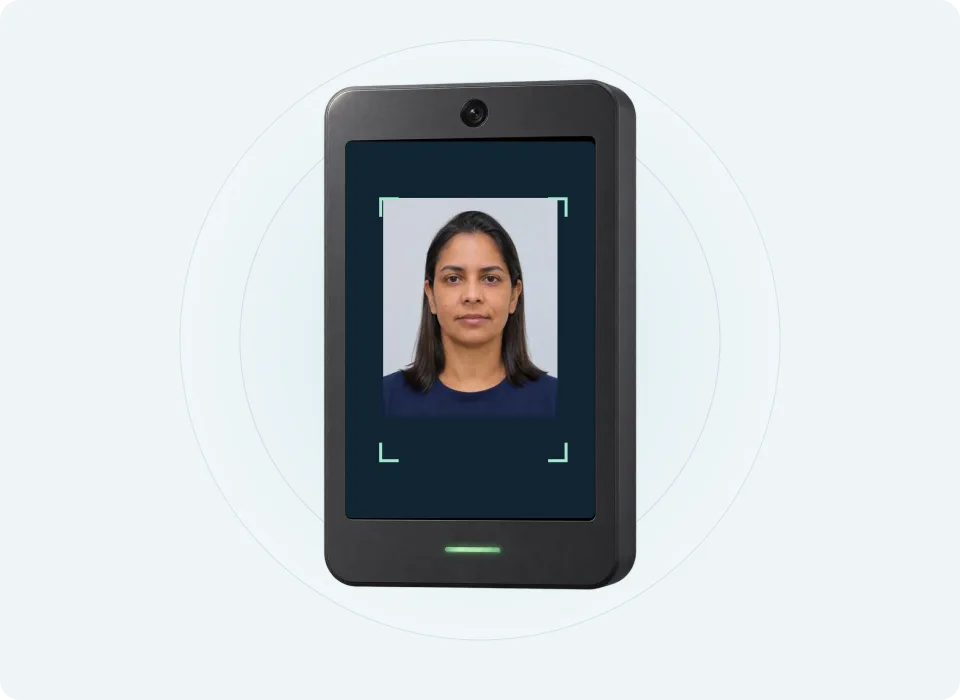
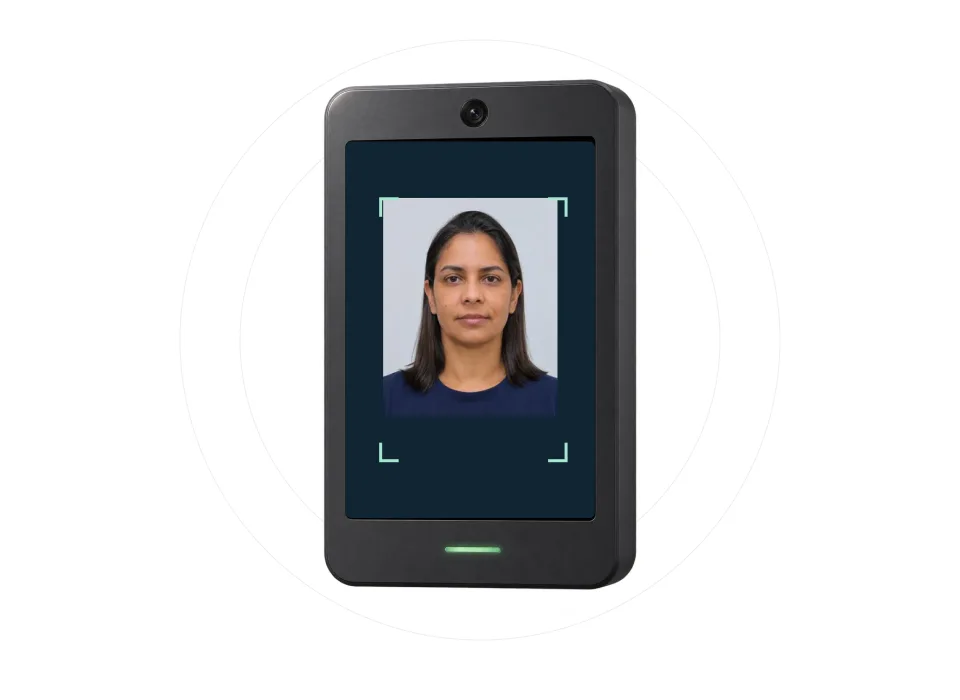
Add files via upload

Changed region(s): [[0.2812, 0.33, 0.3438, 0.63], [0.6562, 0.36, 0.6875, 0.6]]

diff --git a/index.html b/index.html
@@ -21,6 +21,7 @@
   <link rel="stylesheet" href="home.css" />
   <noscript><link rel="stylesheet" href="home-static.css" /></noscript>
   <script src="home.js" defer></script>
+  <script src="home-highlights.js" defer></script>
 </head>
 <body class="portal-home">
   <a class="skip-link" href="#main-content">Ir para o conteúdo principal</a>
@@ -81,7 +82,7 @@
             <div class="demo-stage" aria-hidden="true">
               <div class="demo-orbit"></div>
               <div class="terminal">
-                <img class="terminal-image" src="assets/home/terminal.webp" srcset="assets/home/terminal-mobile.webp 430w, assets/home/terminal.webp 814w" sizes="(max-width: 900px) 70vw, 420px" width="814" height="1086" alt="" fetchpriority="high" />
+                <img class="terminal-image" src="assets/home/terminal.webp" srcset="assets/home/terminal-mobile.webp 430w, assets/home/terminal.webp 814w" sizes="(max-width: 900px) 220px, (max-height: 650px) 220px, 46vw" width="814" height="1086" alt="" fetchpriority="high" />
                 <div class="terminal-screen">
                   <div class="standby"><svg viewBox="0 0 64 64" fill="none" stroke-width="1.5"><path d="M6 22V6h16m20 0h16v16M6 42v16h16m20 0h16V42"/><circle cx="32" cy="25" r="9"/><path d="M17 49c1-16 29-16 30 0"/></svg><span>PONTO ELETRÔNICO</span><div class="standby-lines"></div></div>
                   <span class="confirm-symbol">✓</span>
@@ -91,7 +92,6 @@
               <div class="time-travel">08:00</div>
               <div class="report-card"><p class="report-label">Exemplo fictício</p><h3>Espelho de ponto</h3><table><thead><tr><th>Data</th><th>Marcação</th><th>Tipo</th></tr></thead><tbody><tr><td>05/11</td><td class="destination"><span>08:00</span></td><td>Entrada</td></tr></tbody></table><p class="report-foot">Uma marcação na sua frequência.</p></div>
             </div>
-            <nav class="visual-footer" aria-label="Etapas do ponto eletrônico"><ol class="demo-steps"><li class="is-active"><a href="#cadastro">Cadastro facial</a></li><li><a href="#registro">Registro</a></li><li><a href="#frequencia">Frequência</a></li></ol></nav>
           </div>
         </div>
 
@@ -135,7 +135,7 @@
       </section>
 
       <!-- CAROUSEL -->
-      <section class="modern-carousel" aria-label="Carrossel de informações">
+      <section class="modern-carousel scroll-highlights" id="informacoes" aria-labelledby="highlights-title"><div class="highlights-pin"><div class="highlights-heading"><span class="step-label">Serviços e orientações</span><h2 id="highlights-title">Informações para sua rotina.</h2></div>
         <div class="carousel-wrapper">
           <div class="carousel-track" id="carouselTrack">
 
@@ -163,7 +163,7 @@
                   <span class="eyebrow">Legislação</span>
                   <h3>Marco Legal do Controle de Ponto</h3>
                   <p>Decreto Nº 1237, de 06 de Junho de 2024</p>
-                  <p>Portaria SEAD Nº. 13, de 04 de Junho de 2025</p>
+                  <p>Portaria SEAD Nº. 13, de 04 de Junho de 2025</p><a class="home-link" href="https://drive.google.com/uc?id=19SWZsRNQ-8Bsw2WJKbl1MmO6sEXyFOXp">Consultar legislação</a>
                 </div>
               </div>
             </div>
@@ -194,7 +194,7 @@
                 <div class="carousel-text">
                   <span class="eyebrow">Suporte</span>
                   <h3>Atendimento Especializado</h3>
-                  <p>Nossa equipe está pronta para ajudar com dúvidas, problemas técnicos e orientações sobre o sistema.</p>
+                  <p>Nossa equipe está pronta para ajudar com dúvidas, problemas técnicos e orientações sobre o sistema.</p><a class="home-link" href="#suporte-title">Encontrar atendimento</a>
                 </div>
               </div>
             </div>
@@ -207,29 +207,15 @@
                 <div class="carousel-text">
                   <span class="eyebrow">Relatórios</span>
                   <h3>Histórico Detalhado</h3>
-                  <p>Acesso completo ao histórico de frequência com relatórios organizados e fáceis de entender.</p>
+                  <p>Acesso completo ao histórico de frequência com relatórios organizados e fáceis de entender.</p><a class="home-link" href="https://forponto.contagem.mg.gov.br/ForpontoWeb/login.aspx" target="_blank" rel="noopener noreferrer">Consultar no Forponto</a>
                 </div>
               </div>
             </div>
 
           </div>
-
-          <button class="carousel-nav prev" onclick="moveCarousel(-1)" aria-label="Anterior">
-            <i class="fas fa-chevron-left"></i>
-          </button>
-          <button class="carousel-nav next" onclick="moveCarousel(1)" aria-label="Próximo">
-            <i class="fas fa-chevron-right"></i>
-          </button>
         </div>
 
-        <div class="carousel-dots" role="group" aria-label="Escolher informação">
-          <button class="dot active" type="button" onclick="currentSlide(1)" aria-label="Mostrar informação 1" aria-pressed="true"></button>
-          <button class="dot" type="button" onclick="currentSlide(2)" aria-label="Mostrar informação 2" aria-pressed="false"></button>
-          <button class="dot" type="button" onclick="currentSlide(3)" aria-label="Mostrar informação 3" aria-pressed="false"></button>
-          <button class="dot" type="button" onclick="currentSlide(4)" aria-label="Mostrar informação 4" aria-pressed="false"></button>
-          <button class="dot" type="button" onclick="currentSlide(5)" aria-label="Mostrar informação 5" aria-pressed="false"></button>
-        </div>
-      </section>
+      </div></section>
 
       <!-- ÚLTIMAS NOTÍCIAS -->
       <section class="section-sm latest-news" aria-label="Últimas notícias">

diff --git a/home.css b/home.css
@@ -198,6 +198,8 @@ html { scroll-behavior: auto; }
   .motion-ready .visual-footer { padding: 4px 0 0; max-width: 400px; }
   .motion-ready .demo-steps { gap: 12px; border-bottom: 0; padding-bottom: 0; }
   .motion-ready .demo-steps li { padding-top: 6px; font-size: .875rem; }
+  .motion-ready .demo-steps li:first-child { flex: 1.35; }
+  .motion-ready .demo-steps li:nth-child(2) { flex: .9; }
   .motion-ready .home-step { top: var(--mobile-copy-top, 285px); }
   .motion-ready .step-label { font-size: .75rem; }
   .motion-ready .home-step h2 { font-size: clamp(1.7rem, 6vw, 2.2rem); margin: 12px 0; }
@@ -232,4 +234,54 @@ html { scroll-behavior: auto; }
 @media (max-width: 900px) {
   .motion-ready.has-mobile-bank-nav .chat-fab { top: 12px; right: 66px; bottom: auto; width: 36px; height: 36px; }
   .motion-ready.has-mobile-bank-nav .chat-fab .chat-fab-icon { font-size: 1rem; }
+}
+
+/* Existing information images now use the same native, reversible scroll model. */
+.scroll-highlights { --text-primary: #16160f; --text-secondary: #5c5b55; --surface: #fff; --border: #e8e7e2; --home-muted: #5c5b55; --home-blue: var(--blue-500); background: #fff; padding: 0 !important; }
+#informacoes { scroll-margin-top: var(--home-nav-height); }
+.highlights-heading h2 { font: 400 clamp(1.8rem, 3vw, 3.25rem)/1.1 var(--font-display); letter-spacing: -.025em; margin-top: 10px; color: #16160f; }
+.scroll-highlights .carousel-wrapper { width: 100%; border: 0; border-radius: 14px; background: #fff; }
+.scroll-highlights .carousel-content { grid-template-columns: 1.1fr 1fr; }
+.scroll-highlights .carousel-item { transition: none; }
+.scroll-highlights .carousel-image { background: #f8f8f6; border: 0; padding: 0; }
+.scroll-highlights .carousel-image img { transition: none; }
+.scroll-highlights .carousel-text { border: 0; background: #fff; gap: 16px; padding: clamp(24px, 4vw, 70px); }
+.scroll-highlights .carousel-text h3 { font: 400 clamp(1.7rem, 2.6vw, 3rem)/1.1 var(--font-display); text-transform: none; letter-spacing: -.025em; }
+.scroll-highlights .carousel-text p { font-size: 1rem; line-height: 1.6; }
+.scroll-highlights .carousel-text .home-link { font-size: 1rem; align-self: flex-start; }
+.highlights-controls { display: none; }
+.scroll-highlights:not(.highlights-ready) .carousel-track { display: grid; gap: 24px; height: auto; min-height: 0; }
+.scroll-highlights:not(.highlights-ready) .carousel-item { position: relative; opacity: 1; visibility: visible; height: auto; pointer-events: auto; }
+.scroll-highlights:not(.highlights-ready) .carousel-content { min-height: 350px; height: auto; }
+.highlights-ready { height: 360svh; }
+.highlights-ready .highlights-pin { position: sticky; top: var(--home-nav-height); height: calc(100svh - var(--home-nav-height) - var(--home-bottom-nav, 0px)); display: flex; flex-direction: column; justify-content: center; gap: 24px; padding-block: 16px; }
+.highlights-ready .carousel-wrapper { flex: 0 0 auto; }
+.highlights-ready .carousel-track { height: min(56svh, 620px); min-height: 0; }
+.highlights-ready .carousel-item { visibility: hidden; }
+.highlights-ready .carousel-item.active { visibility: visible; }
+.highlights-ready .highlights-controls { display: flex; flex-wrap: wrap; justify-content: center; gap: 8px 18px; }
+.highlights-controls button { color: #5c5b55; background: transparent; border: 0; border-bottom: 2px solid #eee; padding: 8px 12px; font: 400 .875rem var(--font-body); cursor: pointer; }
+.highlights-controls button[aria-current] { color: var(--blue-500); border-color: var(--blue-500); }
+@media (max-width: 900px), (max-height: 650px) {
+  .highlights-ready { height: 360svh; }
+  .highlights-ready .highlights-pin { gap: 12px; padding-block: 10px; }
+  .highlights-heading h2 { font-size: 1.45rem; line-height: 1.15; margin-top: 6px; }
+  .highlights-heading .step-label { font-size: .75rem; }
+  .highlights-ready .carousel-track { height: min(490px, calc(100svh - var(--home-nav-height) - var(--home-bottom-nav, 0px) - 200px)); }
+  .scroll-highlights .carousel-content { grid-template-columns: 1fr; grid-template-rows: clamp(130px, 20svh, 175px) 1fr; }
+  .scroll-highlights .carousel-image { height: auto; }
+  .scroll-highlights .carousel-text { padding: 16px; gap: 8px; }
+  .scroll-highlights .carousel-text h3 { font-size: 1.4rem; }
+  .scroll-highlights .carousel-text p { line-height: 1.45; }
+  .scroll-highlights .os-detection { margin: 0; }
+  .scroll-highlights .carousel-text .eyebrow { font-size: .75rem; }
+  .highlights-controls button { padding: 6px 8px; }
+  .highlights-ready .highlights-controls { gap: 4px 8px; }
+}
+@media print {
+  .highlights-ready { height: auto; }
+  .highlights-ready .highlights-pin { height: auto; position: static; display: block; }
+  .highlights-ready .carousel-track { height: auto; display: block; }
+  .highlights-ready .carousel-item { height: auto; position: static; visibility: visible !important; opacity: 1 !important; break-inside: avoid; }
+  .highlights-controls { display: none !important; }
 }

diff --git a/home-highlights.js b/home-highlights.js
@@ -1,0 +1,79 @@
+/* Scroll-controlled materials. No timer, autoplay or horizontal touch interception. */
+(() => {
+  const section = document.querySelector('.scroll-highlights');
+  if (!section) return;
+  const pin = section.querySelector('.highlights-pin');
+  const items = [...section.querySelectorAll('.carousel-item')];
+  const controls = [...section.querySelectorAll('[data-highlight]')];
+  const reduced = matchMedia('(prefers-reduced-motion: reduce)');
+  const clamp = n => Math.max(0, Math.min(1, n));
+  const ease = n => n * n * (3 - 2 * n);
+  let geometry, current = null, frame = 0, previousTime = 0;
+
+  function reset() {
+    cancelAnimationFrame(frame); frame = 0; geometry = null; current = null;
+    section.classList.remove('highlights-ready');
+    items.forEach(item => {
+      item.removeAttribute('style'); item.inert = false; item.removeAttribute('aria-hidden');
+      item.querySelector('.carousel-image img')?.removeAttribute('style');
+      item.querySelector('.carousel-text')?.removeAttribute('style');
+    });
+  }
+  function progress() { return geometry ? clamp((scrollY - geometry.start) / geometry.distance) : 0; }
+  function paint(p) {
+    section.dataset.progress = p.toFixed(4);
+    const position = Math.max(0, Math.min(items.length - 1, p * items.length - .5));
+    const index = Math.min(items.length - 1, Math.floor(position));
+    const transition = ease(clamp((position - index - .48) / .52));
+    const active = Math.min(items.length - 1, index + (transition > .5 ? 1 : 0));
+    items.forEach((item, i) => {
+      const opacity = i === index ? 1 - transition : i === index + 1 ? transition : 0;
+      item.style.opacity = String(opacity);
+      item.style.visibility = opacity > .001 ? 'visible' : 'hidden';
+      item.style.zIndex = String(i === active ? 2 : 1);
+      item.style.pointerEvents = i === active ? 'auto' : 'none';
+      const hidden = i !== active;
+      if (item.inert !== hidden) item.inert = hidden;
+      if (item.getAttribute('aria-hidden') !== String(hidden)) item.setAttribute('aria-hidden', String(hidden));
+      item.classList.toggle('active', i === active);
+      const image = item.querySelector('.carousel-image img');
+      if (image) image.style.transform = `scale(${1.035 - clamp(position - i + .5) * .025})`;
+      const text = item.querySelector('.carousel-text');
+      if (text) text.style.transform = `translateY(${(i === index ? -transition : 1 - transition) * 12}px)`;
+    });
+    controls.forEach((control, i) => {
+      if (i === active) control.setAttribute('aria-current','step');
+      else control.removeAttribute('aria-current');
+    });
+  }
+  function measure() {
+    if (reduced.matches) { reset(); return; }
+    section.classList.add('highlights-ready');
+    const top = document.querySelector('.site-nav').getBoundingClientRect().height;
+    const rect = section.getBoundingClientRect();
+    geometry = { start: rect.top + scrollY - top, distance: Math.max(1, rect.height - pin.getBoundingClientRect().height) };
+    current = progress(); paint(current);
+  }
+  function tick(time) {
+    frame = 0;
+    if (!geometry) return;
+    const target = progress();
+    if (current === target) { previousTime = time; return; }
+    const delta = Math.min(64, previousTime ? time - previousTime : 16); previousTime = time;
+    if (current === null || Math.abs(target-current) < .00008) current = target;
+    else current += (target-current) * (1-Math.exp(-delta/95));
+    paint(current);
+    if (current !== target) frame = requestAnimationFrame(tick);
+  }
+  function schedule() { if (!frame && geometry) frame = requestAnimationFrame(tick); }
+  controls.forEach((control, i) => control.addEventListener('click', () => {
+    if (geometry) scrollTo({ top: geometry.start + ((i+.5)/items.length) * geometry.distance, behavior: 'smooth' });
+  }));
+  addEventListener('scroll',schedule,{passive:true});
+  addEventListener('resize',measure,{passive:true});
+  addEventListener('pageshow',measure);
+  reduced.addEventListener('change',measure);
+  const observer = new ResizeObserver(measure); observer.observe(pin);
+  document.fonts?.ready.then(measure);
+  measure();
+})();

diff --git a/home.js b/home.js
@@ -33,7 +33,7 @@
     for (const panel of panels) { panel.inert = false; panel.removeAttribute('aria-hidden'); }
     cell.querySelector('span').style.visibility = '';
     stage.style.removeProperty('--scene-height');
-    markers.forEach((marker, i) => { marker.classList.toggle('is-active', i === 0); marker.style.removeProperty('border-image'); });
+    markers.forEach((marker, i) => { marker.classList.toggle('is-active', i === 0); marker.style.removeProperty('border-image'); marker.querySelector('a')?.removeAttribute('aria-current'); });
   }
 
   function rawProgress() {
@@ -76,8 +76,6 @@
       cellY: target.top - box.top + target.height / 2,
       openingY: compact.matches ? panels[0].getBoundingClientRect().height + 40 : 0
     };
-    stage.dataset.scrollStart = geometry.start.toFixed(2);
-    stage.dataset.scrollDistance = geometry.distance.toFixed(2);
     current = rawProgress();
     paint(current);
   }
@@ -140,6 +138,7 @@
     frame = 0;
     if (!geometry || failed || reduced.matches) return;
     const target = rawProgress();
+    if (current === target) { lastTick = time; return; }
     const elapsed = Math.min(64, lastTick ? time - lastTick : 16);
     lastTick = time;
     if (current === null || Math.abs(target - current) < .00008) current = target;
@@ -151,8 +150,6 @@
 
   function toHash(behavior = 'instant') {
     if (!geometry || !(location.hash in phases)) return;
-    stage.dataset.anchorTarget = (geometry.start + phases[location.hash] * geometry.distance).toFixed(2);
-    stage.dataset.anchor = location.hash;
     window.scrollTo({ top: geometry.start + phases[location.hash] * geometry.distance, behavior });
     if (behavior === 'instant') { current = rawProgress(); paint(current); }
     schedule();

diff --git a/script.js b/script.js
@@ -143,6 +143,7 @@ let autoSlideId = null;
 let isTrans     = false;
 
 function initCarousel() {
+  if (document.querySelector('.scroll-highlights')) return;
   updateCarousel();
   startAutoSlide();
   const wrapper = document.querySelector('.carousel-wrapper');
@@ -208,6 +209,7 @@ function currentSlide(n) {
 }
 
 function startAutoSlide()  {
+  if (document.querySelector('.scroll-highlights')) return;
   const carousel = document.querySelector('.modern-carousel');
   if (document.hidden || matchMedia('(prefers-reduced-motion: reduce)').matches || carousel?.contains(document.activeElement)) return;
   if (!autoSlideId) autoSlideId = setInterval(() => moveCarousel(1), 5500);

diff --git a/ENTREGA.md b/ENTREGA.md
@@ -6,8 +6,19 @@ Implementado nos arquivos fornecidos, sem etapa de build nem dependências novas
 
 Na pasta do projeto, execute `node preview.cjs` e abra http://127.0.0.1:4173/portal/. No PowerShell com restrições de resolução de caminhos do Node, use `Get-Content preview.cjs -Raw | node`. Encerre com Ctrl+C. Também é possível usar qualquer servidor estático; para validar a publicação, teste com o prefixo `/portal/`.
 
+## Experiência contínua e materiais integrados
+
+A revisão atual usa uma única composição fixa para a abertura e as três etapas: o mesmo terminal continua em cena enquanto textos HTML se alternam suavemente. O progresso acompanha a rolagem nativa com amortecimento de 95 ms, sem interceptar a roda do mouse ou os gestos de toque. O fundo da composição é branco; cabeçalho e conteúdo ocupam a largura disponível com margens fluidas. Foram removidos os avisos visuais solicitados. As etapas têm navegação direta por âncora.
+
+As cinco imagens do antigo carrossel também seguem a rolagem, com imagem e texto sincronizados, avanço e retorno e controles de acesso direto. O temporizador legado foi desativado nesta home. O novo arquivo home-highlights.js controla essa sequência; script.js recebeu somente as proteções para impedir o autoplay nesse bloco. URLs, documentos e o acesso ao aplicativo foram preservados. Sem JavaScript ou com movimento reduzido, os materiais ficam disponíveis em uma lista estática.
+
+No HTML, os painéis inativos da composição são retirados da navegação por teclado durante a animação, enquanto os controles das etapas permanecem acessíveis. O conteúdo completo volta ao fluxo normal nas versões estáticas.
+
+Os registros anteriores abaixo descrevem a implementação inicial e a revisão móvel; as informações desta seção prevalecem sobre a descrição antiga da fixação isolada do terminal e do carrossel automático.
+
 ## Arquivos alterados e criados
 
+- Alterados também: `script.js` (bloqueio do autoplay apenas neste bloco), `design/export-scenes.cjs` e as três cenas estáticas com fundo branco. Criado: `home-highlights.js`.
 - Alterado: `index.html`, com nova abertura, demonstração e orientações; atalhos reais nas lojas de aplicativos; carregamento diferido dos scripts existentes.
 - Criados: `home.css`, `home-static.css` e `home.js`, exclusivos da página inicial.
 - Criados: `assets/home/terminal.webp`, `terminal-mobile.webp`, `retrato-ficticio.webp`, `cena-cadastro.webp`, `cena-registro.webp` e `cena-frequencia.webp`.
@@ -46,6 +57,6 @@ Os links legados de Drive, capacitação, lojas, contatos e Power BI foram prese
 
 ## Recursos e desempenho
 
-A abordagem das três cenas combina um render original recortado com HTML/CSS. Não há vídeo, sequência pesada ou biblioteca de animação. O render principal tem 41.372 bytes, a alternativa móvel 15.768 bytes e o retrato 5.866 bytes. As seis imagens web somam 95.674 bytes. As cenas estáticas usam lazy loading; a imagem do terminal tem prioridade alta e `srcset`. Originais de produção em `design/source/` não são solicitados pelo site.
+A abordagem das três cenas combina um render original recortado com HTML/CSS. Não há vídeo, sequência pesada ou biblioteca de animação. O render principal tem 41.372 bytes, a alternativa móvel 15.768 bytes e o retrato 5.866 bytes. As seis imagens web somam 93.008 bytes. As cenas estáticas usam lazy loading; a imagem do terminal tem prioridade alta e `srcset`. Originais de produção em `design/source/` não são solicitados pelo site.
 
 Origem, condições de uso e prompts estão em `design/ATIVOS.md`. A matriz de testes e as limitações estão em `design/TESTES.md`.

diff --git a/design/TESTES.md b/design/TESTES.md
@@ -1,5 +1,20 @@
 # Validação — 23/11/2026
 
+## Revisão atual: composição contínua e imagens por rolagem
+
+Esta revisão substitui a fixação separada e o carrossel automático descritos nos registros anteriores. Há um único painel fixo para equipamento e informações, com transições reversíveis e suavização de 95 ms. O antigo carrossel usa o mesmo modelo de rolagem nativa, com seleção direta e sem temporizador.
+
+- Desktop em 1920 × 1080: composição de 1915 px de largura (descontada a barra vertical), margens fluidas de cerca de 77 px, atalhos visíveis na abertura e fundo branco rgb(255, 255, 255).
+- Celular em 390 × 844: conteúdo da etapa de frequência terminou em y≈661 px, acima da navegação em y=769 px. Horário alinhado à célula com erro inferior a 0,001 px nos dois eixos.
+- Materiais em 320 × 740: legislação e seu link legíveis, controles terminando em y≈653 px, acima da navegação em y=665 px; nenhuma rolagem horizontal.
+- Sequência de imagens: seleção Legislação estável por 31,6 segundos sem rolagem. Avanço por rolagem mostrou Aplicativo; retorno mostrou Legislação, mantendo o painel em y=63 px. Os controles também navegam para as informações correspondentes.
+- HTML verificado: nenhum recurso local ausente, ID duplicado, âncora inválida ou comando antigo de navegação do carrossel. As frases solicitadas foram removidas.
+- Fixture sem JavaScript: zero scripts, quatro painéis de texto no fluxo, três cenas estáticas e cinco materiais visíveis em posição relativa.
+- Fixture de movimento reduzido: sem composição fixada, sem materiais fixados e cinco materiais estáticos visíveis.
+- As cenas estáticas foram reexportadas com fundo branco para acompanhar a nova direção visual.
+
+Os testes de tamanho móvel e preferências são simulações no navegador integrado. As limitações de aparelhos físicos, leitor de tela e rede descritas abaixo continuam válidas. Capturas com sufixo v3 correspondem a esta revisão.
+
 ## Revisão: sequência móvel e identidade original
 
 A versão revisada usa animação por rolagem também no celular e em telas baixas. A versão estática fica reservada à ausência de JavaScript, movimento reduzido ou falha de mídia. A paleta e a tipografia vêm diretamente de tokens.css, sem a paleta azul-petróleo introduzida na primeira entrega.
